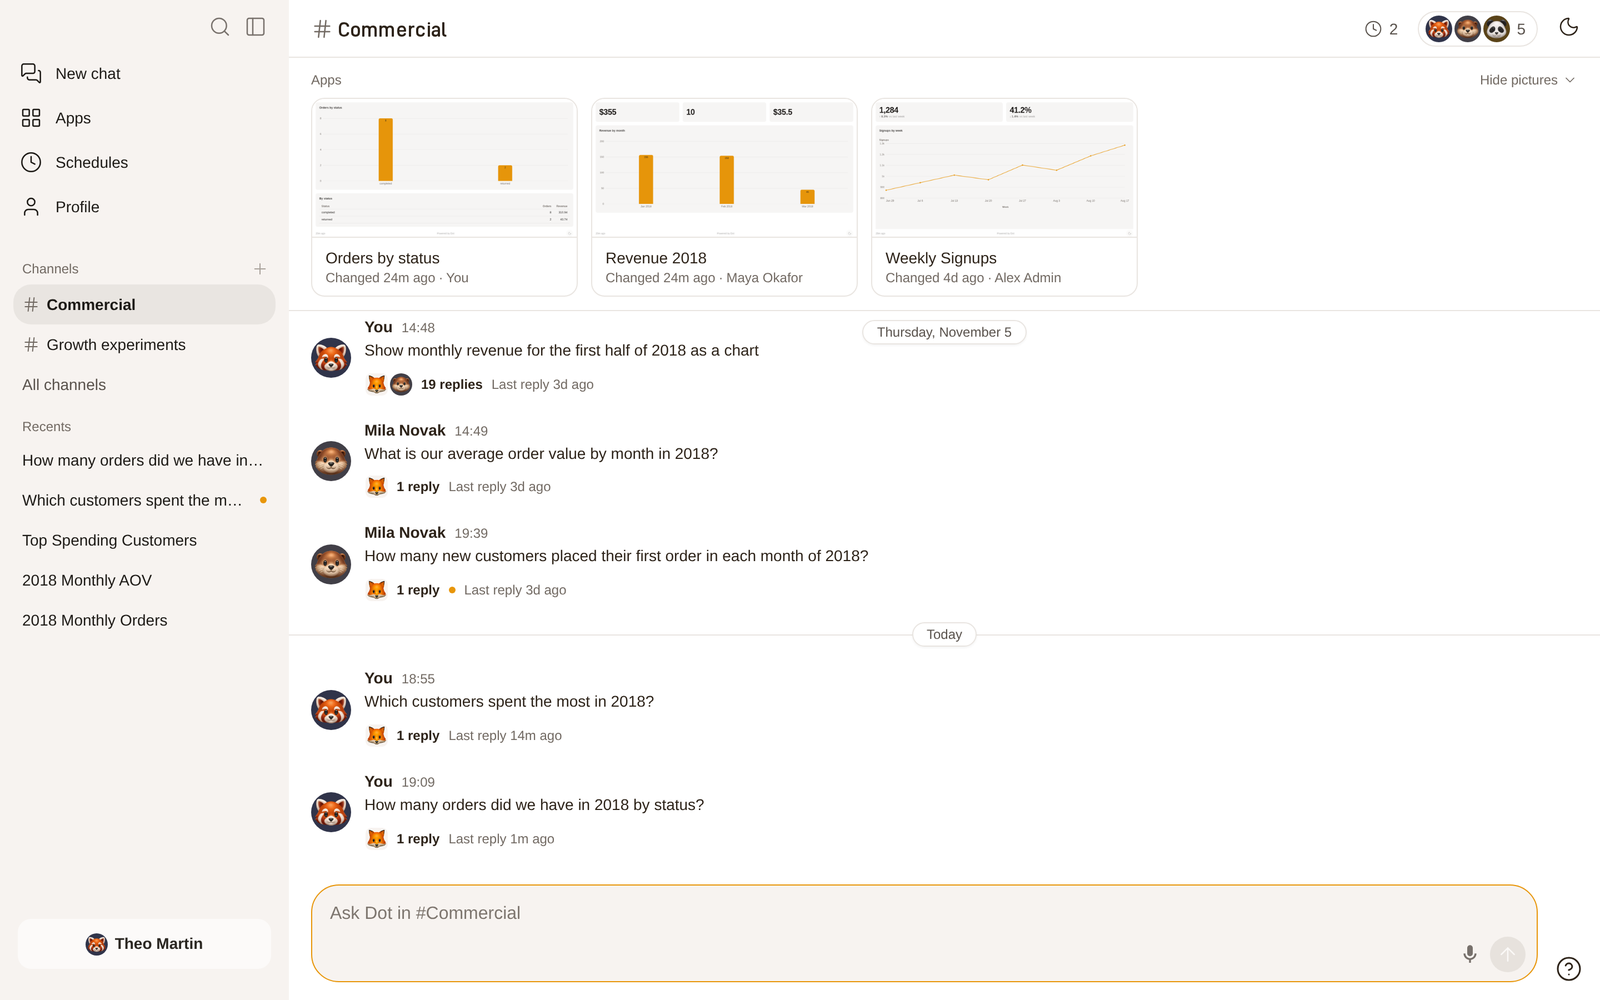
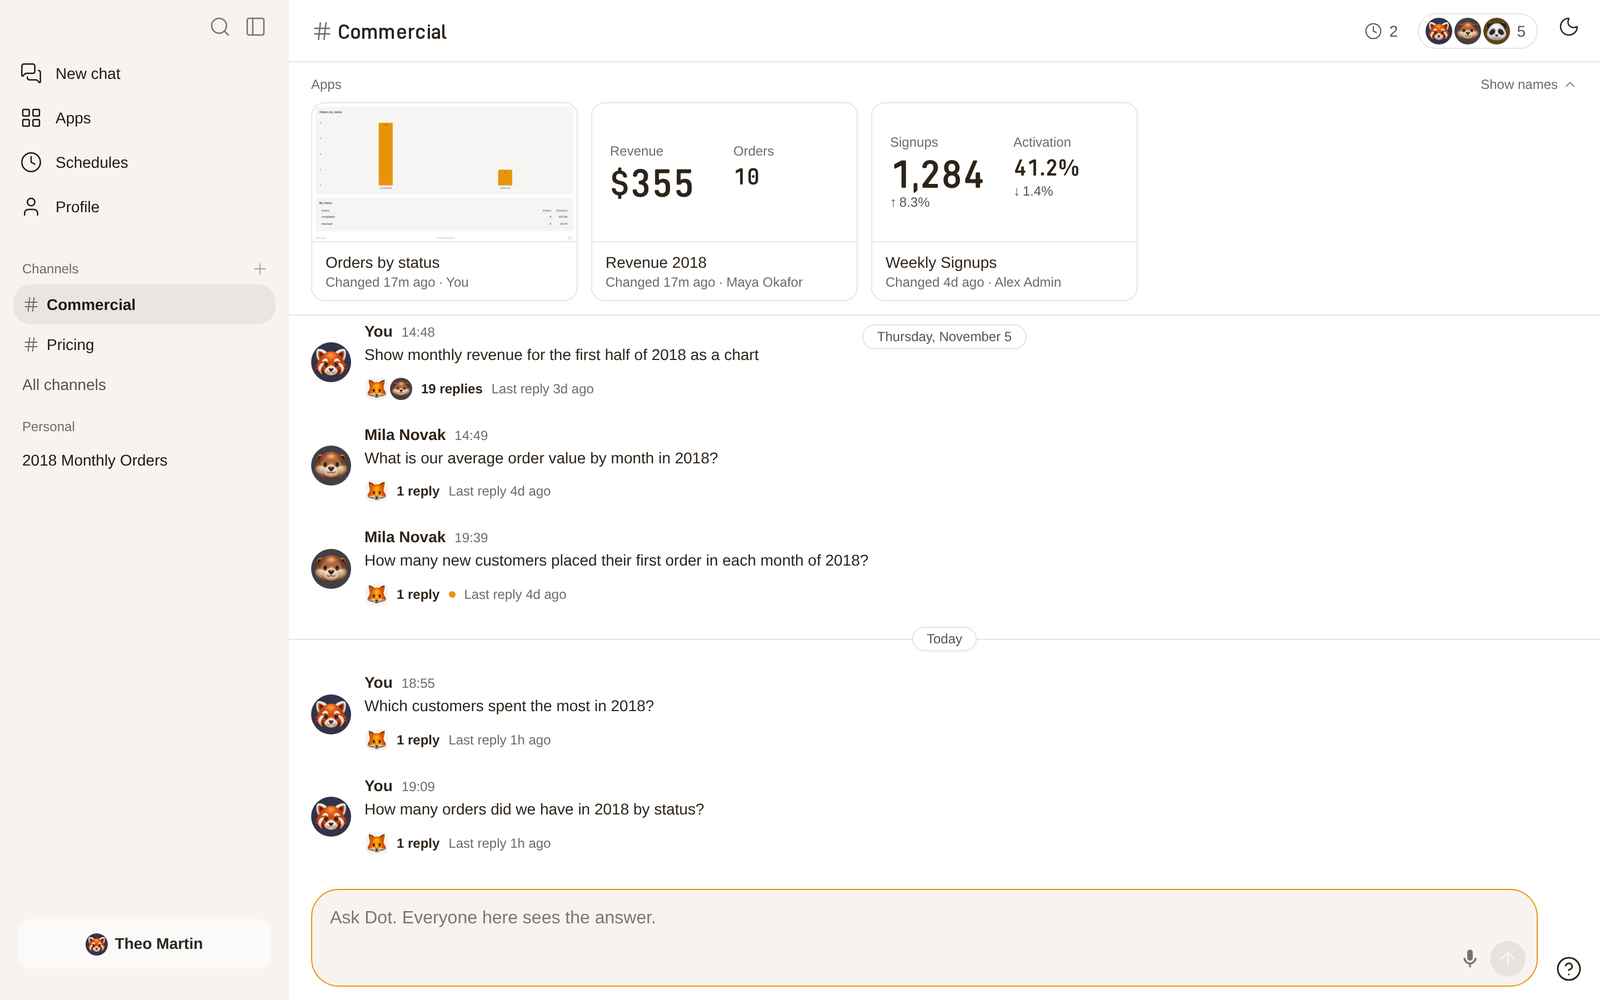
docs: channels start well, show app numbers, Personal
A new channel suggests first questions; app cards lead with their
numbers; the sidebar's Personal holds chats in no channel, a chat's
menu moves one into a channel, and the sidebar drags wider.

diff --git a/dot/dot/whats-dot/teams.md b/dot/dot/whats-dot/teams.md
@@ -13,7 +13,7 @@ A channel is your team's place in Dot. It holds the team's questions to Dot, its
 1. In the sidebar, under **Channels**, open the channel.
 2. Type your question in the box at the bottom and press Enter.
 
-Your question appears in the channel, and its thread opens beside it. Dot answers in the thread, with your own data access. To ask a follow-up, use the box in the thread.
+Your question appears in the channel, and its thread opens beside it. Dot answers in the thread, with your own data access, and everyone in the channel sees the answer. To ask a follow-up, use the box in the thread.
 
 Each question in the channel shows who asked it and when. Below it, a line says how many replies the thread has, who replied, and when the last reply came. Click a question or its replies to open the thread. To open a thread as a page of its own, click the arrows at its top.
 
@@ -34,7 +34,7 @@ Each channel names the groups and people who can open it, and what they can do t
 
 Admins open every channel. Everything that is in no channel is personal: only you and admins can open it, unless you share its link.
 
-To see who is in a channel, click the faces at the top of it. The number beside them says how many people can open it. If you can only view a channel, the box at the bottom says who can let you ask.
+To see who is in a channel, click the faces at the top of it. The number beside them says how many people can open it. In a channel you can only view, the place of the box says who can add you.
 
 ## Start a channel
 
@@ -46,22 +46,30 @@ Anyone in the workspace can start a channel.
 4. Change **Can view** to **Can edit** for the people who should ask Dot in it.
 5. Click **Create**.
 
+A new channel is empty: it says who started it and when, and suggests a few first questions for your data. Click one to ask it.
+
 You are always in a channel you start. You and the workspace's admins can rename it, delete it and change who is in it, from the faces and the **⋮** menu at the top of the channel. Deleting a channel gives its chats back to the people who started them. Only an admin can delete a channel that holds apps.
 
 <figure><img src="../../.gitbook/assets/team-new-channel.png" alt="The New channel panel with a name, two people who can edit, and Create"><figcaption><p>Name the channel and choose who is in it.</p></figcaption></figure>
+
+<figure><img src="../../.gitbook/assets/team-channel-start.png" alt="An empty channel saying who started it and when, with two suggested first questions above the box to ask Dot"><figcaption><p>A new channel suggests a few first questions.</p></figcaption></figure>
 
 **All channels** in the sidebar lists every channel you can open.
 
 ## Apps in a channel
 
-A channel's apps sit at the top of it, each with a picture of the app as you see it, with your own data. Click one to open it. **Hide pictures** turns the cards into a row of names. While a thread is open, and on a phone, the apps show as names.
+A channel's apps sit at the top of it. An app with headline numbers shows its first ones on its card, live and with your own data. Any other app shows a picture of its first screen. Click a card to open the app. **Show names** turns the cards into a row of names. While a thread is open, and on a phone, the apps show as names.
 
 An app is in a channel when it is published to that channel's folder on the **Apps** page.
 
 ## Put a chat in a channel
 
+In the sidebar, click **⋮** beside the chat, then **Move to a channel** and the channel. The chat leaves **Personal** and becomes a question in the channel.
+
+Or from the chat itself:
+
 1. Open the chat and click **Share**.
-2. Under **Channel**, pick the team's channel. Dot shows who will be able to ask in it and who can only read it.
+2. Under **Channel**, pick the team's channel (type to search). Dot shows who will be able to ask in it and who can only read it.
 3. Click **Share in** and the channel's name.
 
 Only the person who started a chat, or an admin, can put it in a channel or take it out.
@@ -70,13 +78,20 @@ Only the person who started a chat, or an admin, can put it in a channel or take
 
 ## Ask in a teammate's chat
 
-Open a question's thread in the channel, or the chat from **Recents** in the sidebar. Each question in it shows the face and name of the person who asked.
+Open a question's thread in the channel. Each question in it shows the face and name of the person who asked.
 
 When you ask, Dot answers with your own data access, not the access of the person who started the chat. Everyone in the channel sees what you ask. To build on a teammate's analysis without adding to their chat, open it as a page and click **Continue in a private chat**. Your copy keeps who asked each earlier question.
 
 If a teammate asks while you have the chat open, their question and Dot's work appear as they happen.
 
 <figure><img src="../../.gitbook/assets/team-chat.png" alt="A team chat as a page, showing its channel and the people in it, with each question labelled by who asked"><figcaption><p>A team chat says which channel it is in and who asked each question.</p></figcaption></figure>
+
+## The sidebar
+
+* **Channels** lists the channels you are in. A channel's name is bold when something is new in it since you last looked. **All channels** lists every channel you can open.
+* **Personal** lists your chats that are in no channel. A chat in a channel is a question in that channel.
+
+To make the sidebar wider, for long chat titles or channel names, drag its right edge.
 
 ## Schedules in a channel
 
